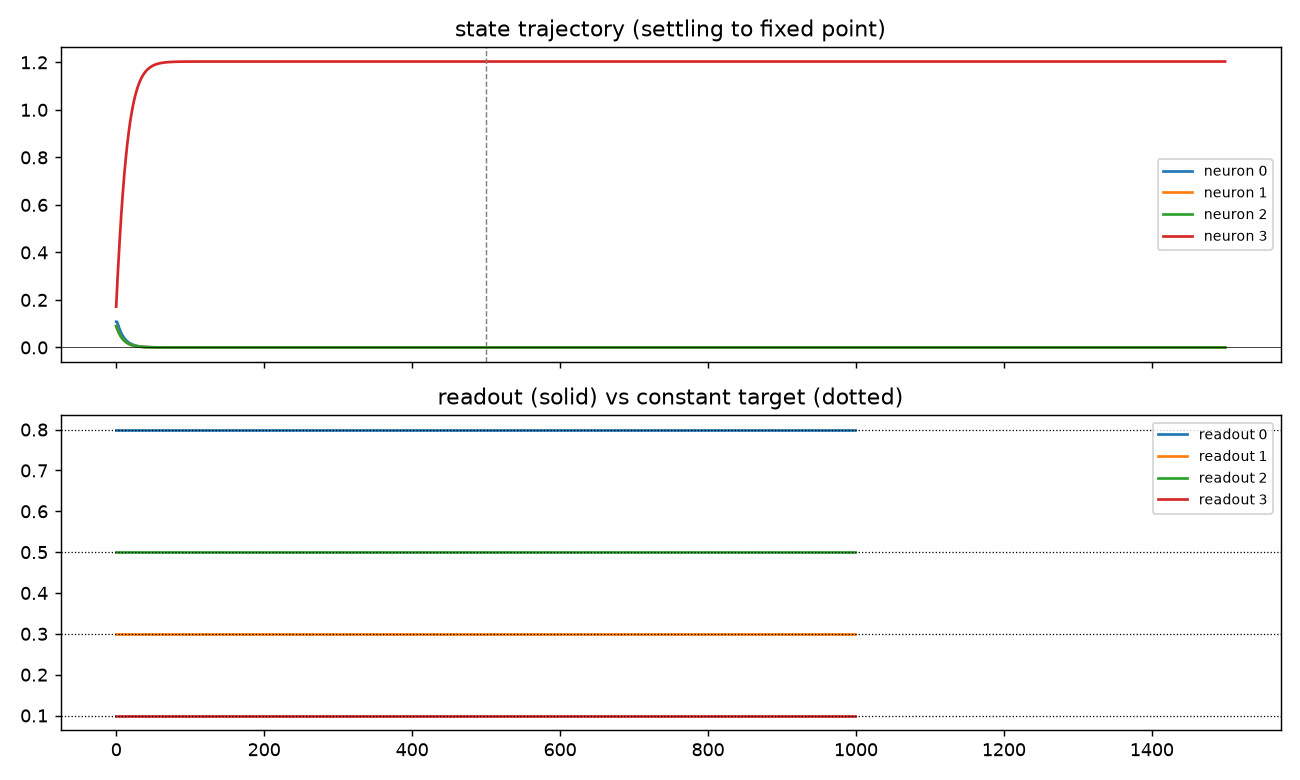
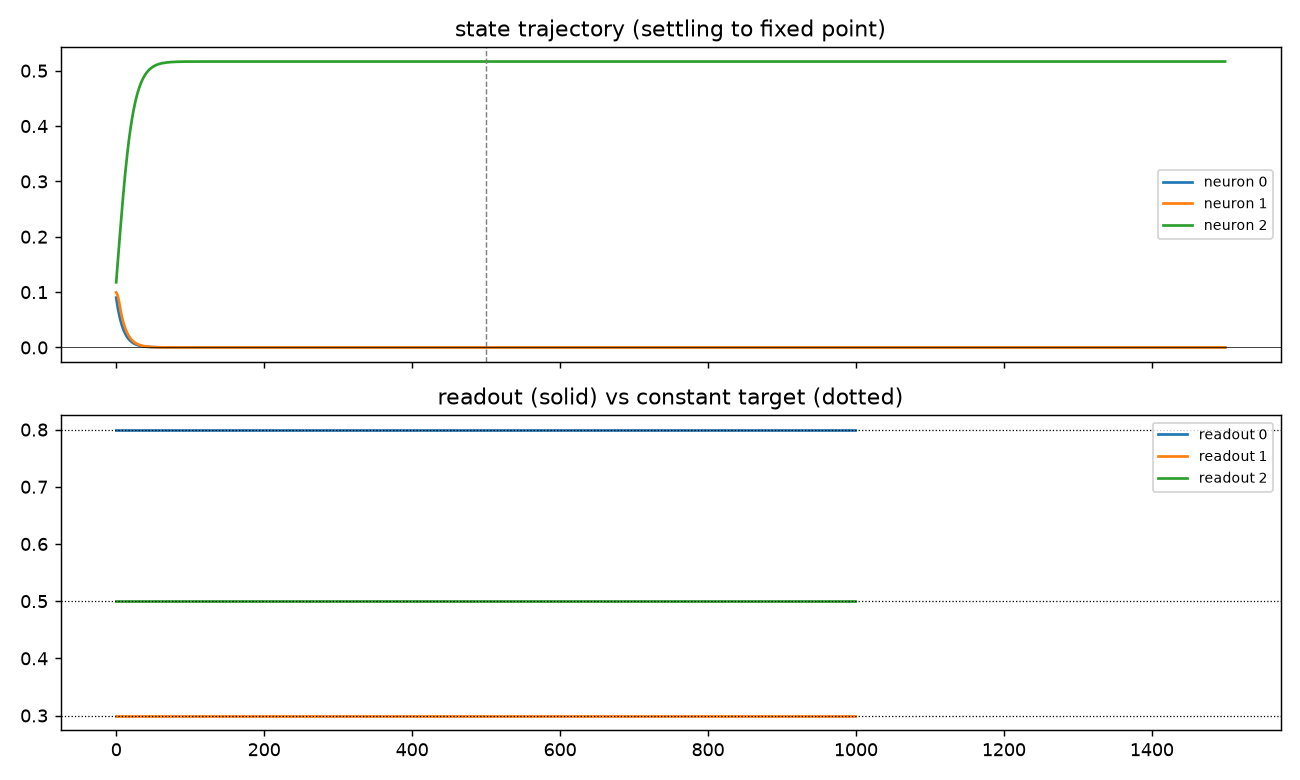
changes

diff --git a/examples/fixed_point_test.py b/examples/fixed_point_test.py
@@ -8,12 +8,12 @@ from oscillon.dynamics import simulate
 from oscillon.readout import fit_readout, apply_readout
 from oscillon.train.es import openai_es
 
-N = 4
+N = 3
 dt, n_steps, burn_in = 0.1, 1500, 500          # long burn_in: let transient die, judge the tail
 key = jax.random.PRNGKey(0)
 
 # --- constant target: a held static output vector ---
-target_value = jnp.array([0.8, 0.3, 0.5, 0.1])   # (N,) the value to settle-and-decode to
+target_value = jnp.array([0.8, 0.3, 0.5])   # (N,) the value to settle-and-decode to
 targets = jnp.broadcast_to(target_value, (n_steps, N))   # constant over time
 
 # --- spec: a NON-cycle topology biases toward fixed points, not oscillation ---
@@ -23,7 +23,7 @@ spec = BlockSoftSpec(sizes=(N,), cross_deltas=np.zeros((1, 1)),
 
 # seed an acyclic / feedforward-ish adjacency (no closed loop -> no traveling wave)
 A_seed = np.zeros((N, N), dtype=bool)
-A_seed[1, 0] = A_seed[2, 1] = A_seed[3, 2] = True     # a chain 0->1->2->3, no wrap-around
+A_seed[1, 0] = A_seed[2, 1] = True     # a chain 0->1->2, no wrap-around
 cycle = None
 key, sub = jax.random.split(key)
 params0 = init_block_params_from_adjacency(spec, sub, A_seed)
@@ -59,6 +59,7 @@ print("fixed point x*:", x_star)
 # confirm it's actually a fixed point: dx/dt ~ 0 there
 dxdt = -x_star + np.maximum(np.asarray(W_star) @ x_star + np.asarray(theta_star), 0)
 print("||dx/dt|| at x*:", np.linalg.norm(dxdt))            # -> near zero
+
 
 import matplotlib.pyplot as plt
 from oscillon.topology import extract_block_adjacency, block_gate_matrix
@@ -113,16 +114,200 @@ print("kept seed (acyclic chain):", np.array_equal(A_learned, A_seed))
 rng = np.random.default_rng(0)
 x0s = [rng.uniform(0, 1.2, size=N) for _ in range(6)] + [np.asarray(x0)]
 
+xs_tmp = simulate(W_star, theta_star, x0, dt=dt, n_steps=n_steps)
+x_star = np.asarray(xs_tmp[-200:].mean(0))
+
 # BEFORE: warm-start dynamics
 W0, th0 = p2m(params0)
-plot_phase_portrait(W0, th0, dims=(2, 3), x0s=x0s,
+plot_phase_portrait(W0, th0, dims=(1, 2), x0s=x0s,
+                    slice_value=float(x_star[0]),
                     dt=dt, n_steps=n_steps,
                     title="phase space BEFORE training (warm start)",
                     save_path=str(out / "fp_phase_before.png"))
 
 # AFTER: trained dynamics converging to x*
-fig_after = plot_phase_portrait(W_star, theta_star, dims=(2, 3), x0s=x0s,
+fig_after = plot_phase_portrait(W_star, theta_star, dims=(1, 2), x0s=x0s,
+                                slice_value=float(x_star[0]),
                                 dt=dt, n_steps=n_steps,
                                 title="phase space AFTER training (fixed point)",
                                 save_path=str(out / "fp_phase_after.png"))
 print("saved phase portraits")
+
+def diagnose_fixed_point(W, theta, x_star, tol=1e-6):
+    x_star = np.asarray(x_star)
+    W, theta = np.asarray(W), np.asarray(theta)
+
+    drive = W @ x_star + theta
+    active = drive > tol          # neurons actually "on" (interior support)
+    print("x*:", np.round(x_star, 4))
+    print("drive (Wx*+theta):", np.round(drive, 4))
+    print("active support:", active, f"({active.sum()}/{len(x_star)} active)")
+
+    if active.sum() == 0:
+        print("trivial fixed point (all zero) -- degenerate")
+        return
+
+    # Jacobian restricted to the active support only
+    idx = np.where(active)[0]
+    J_full = -np.eye(len(x_star)) + W
+    J_active = J_full[np.ix_(idx, idx)]
+    eigs = np.linalg.eigvals(J_active)
+    print("eigenvalues on active submatrix:", np.round(eigs, 4))
+    print("max real part:", eigs.real.max())
+    print("-> stable" if eigs.real.max() < 0 else "-> UNSTABLE (saddle/source)")
+
+diagnose_fixed_point(W_star, theta_star, x_star)
+
+# ======================================================================
+#  DISCOVERY SWEEP: can ES find a fixed point from random asymmetric init?
+# ======================================================================
+from oscillon.topology import init_params_asymmetric, extract_block_adjacency
+
+from topology_analysis import analyze_interior_fixed_point  
+
+
+def contains_directed_cycle(A, N):
+    """Does the adjacency contain a Hamiltonian directed cycle? Used here as
+    a NEGATIVE signal: a fixed point is more 'clean' if no closed loop formed."""
+    import itertools
+    for perm in itertools.permutations(range(1, N)):
+        order = (0,) + perm
+        if all(A[order[(k + 1) % N], order[k]] for k in range(N)):
+            return True
+    return False
+
+
+def fixed_point_emerged(W_t, theta_t, x0, dt, n_steps, burn_in,
+                         tail_frac=0.2, var_thresh=1e-3, dxdt_thresh=1e-2):
+    """Judge whether the TRAINED network settled to a fixed point.
+    Criteria: low tail variance (state stopped moving) AND low residual
+    dynamics (dx/dt ~ 0) at the tail mean. Independent of target value."""
+    xs = np.asarray(simulate(W_t, theta_t, x0, dt=dt, n_steps=n_steps))[burn_in:]
+    tail = xs[-int(tail_frac * len(xs)):]
+    tail_var = float(tail.var(0).max())
+    x_star = tail.mean(0)
+    dxdt = -x_star + np.maximum(np.asarray(W_t) @ x_star + np.asarray(theta_t), 0)
+    dxdt_norm = float(np.linalg.norm(dxdt))
+    settled = (tail_var < var_thresh) and (dxdt_norm < dxdt_thresh)
+    return settled, tail_var, dxdt_norm, x_star
+
+
+def is_stable_fixed_point(W, theta, x_star, tol=1e-6):
+    W, theta, x_star = np.asarray(W), np.asarray(theta), np.asarray(x_star)
+    drive = W @ x_star + theta
+    active = drive > tol
+    if active.sum() == 0:
+        return False, np.array([])          # trivial/degenerate, treat as not stable
+    idx = np.where(active)[0]
+    J_active = (-np.eye(len(x_star)) + W)[np.ix_(idx, idx)]
+    eigs = np.linalg.eigvals(J_active)
+    return bool(eigs.real.max() < 0), eigs
+
+from collections import defaultdict
+
+def summarize_by_zstd(results):
+    by_zstd = defaultdict(list)
+    for r in results:
+        by_zstd[r["z_std"]].append(r)
+
+    print("\n" + "=" * 70)
+    print(f"{'z_std':>6} | {'n':>3} | {'settled':>8} | {'acyclic':>8} | "
+          f"{'both':>6} | {'fp_stable':>10} | {'mean_eig':>9}")
+    print("-" * 70)
+
+    summary = {}
+    for z_std in sorted(by_zstd):
+        rows = by_zstd[z_std]
+        n = len(rows)
+        n_settled = sum(r["settled"] for r in rows)
+        n_acyclic = sum(r["acyclic"] for r in rows)
+        n_both = sum(r["settled"] and r["acyclic"] for r in rows)
+        n_fp_stable = sum(r["fp_stable"] for r in rows)
+        eigs = [r["max_real_eig"] for r in rows if not np.isnan(r["max_real_eig"])]
+        mean_eig = float(np.mean(eigs)) if eigs else float("nan")
+
+        summary[z_std] = {
+            "n": n, "settled_pct": 100 * n_settled / n,
+            "acyclic_pct": 100 * n_acyclic / n,
+            "both_pct": 100 * n_both / n,
+            "fp_stable_pct": 100 * n_fp_stable / n,
+            "mean_max_real_eig": mean_eig,
+        }
+        print(f"{z_std:>6.1f} | {n:>3} | {n_settled:>3}/{n:<3} {100*n_settled/n:>4.0f}%| "
+              f"{n_acyclic:>3}/{n:<3} {100*n_acyclic/n:>4.0f}%| "
+              f"{100*n_both/n:>5.0f}% | {n_fp_stable:>3}/{n:<3} {100*n_fp_stable/n:>4.0f}%| "
+              f"{mean_eig:>+9.3f}")
+
+    print("=" * 70)
+
+    # crude invariance check: spread of settled_pct and fp_stable_pct across z_std
+    settled_spread = max(s["settled_pct"] for s in summary.values()) - \
+                      min(s["settled_pct"] for s in summary.values())
+    stable_spread = max(s["fp_stable_pct"] for s in summary.values()) - \
+                     min(s["fp_stable_pct"] for s in summary.values())
+    print(f"spread across z_std -> settled: {settled_spread:.0f}pp, "
+          f"fp_stable: {stable_spread:.0f}pp")
+    print("(small spread supports invariance to init scale)")
+
+    return summary
+
+def run_sweep(n_seeds=20, z_stds=(1.0, 2.0, 3.0)):
+    # fixed reference target so every seed faces the SAME problem
+    target_ref = jnp.linspace(0.1, 0.9, N)
+    targets_sweep = jnp.broadcast_to(target_ref, (n_steps, N))
+
+    results = []
+    for seed in range(n_seeds):
+        for z_std in z_stds:
+            key_s = jax.random.PRNGKey(2000 + seed)
+            key_s, sub_s = jax.random.split(key_s)
+            params0_s = init_params_asymmetric(spec, sub_s, z_std=z_std)
+
+            fit_s = make_fixed_point_fitness(
+                p2m, x0, targets_sweep, dt=dt, n_steps=n_steps, burn_in=burn_in,
+                ridge=1e-6, settle_weight=1.0, n_edges=spec.n_edges)
+
+            best_params_s, history_s = openai_es(
+                fit_s, params0_s, key_s, n_iters=600, pop=128, sigma=0.1, lr=0.05)
+            W_s, theta_s = p2m(best_params_s)
+
+            settled, tail_var, dxdt_norm, x_star = fixed_point_emerged(
+                W_s, theta_s, x0, dt, n_steps, burn_in)
+
+            A_l = extract_block_adjacency(spec, best_params_s)
+            acyclic = not contains_directed_cycle(A_l, N)
+            fp_stable, fp_eigs = is_stable_fixed_point(W_s, theta_s, x_star)
+
+            results.append({
+                "seed": seed, "z_std": z_std, "settled": settled,
+                "tail_var": tail_var, "dxdt_norm": dxdt_norm,
+                "acyclic": acyclic, "fp_stable": fp_stable,
+                "max_real_eig": float(fp_eigs.real.max()) if len(fp_eigs) else float("nan"),
+                "final_reward": history_s[-1],
+            })
+            print(f"seed {seed:2d}: z_std={z_std:.2f} settled={settled!s:5} "
+                  f"acyclic={acyclic!s:5} fp_stable={fp_stable!s:5} "
+                  f"tail_var={tail_var:.4f} dxdt={dxdt_norm:.4f} "
+                  f"eig={fp_eigs.real.max():+.3f}")
+
+    n = len(results)
+    n_settled = sum(r["settled"] for r in results)
+    n_acyclic = sum(r["acyclic"] for r in results)
+    n_both = sum(r["settled"] and r["acyclic"] for r in results)
+    n_fp_stable = sum(r["fp_stable"] for r in results)
+
+    summary_by_zstd = summarize_by_zstd(results)
+
+    print("\n" + "=" * 60)
+    print(f"FIXED-POINT DISCOVERY SWEEP  (N={N}, {n_seeds} seeds x {len(z_stds)} z_std)")
+    print(f"  settled to fixed point:   {n_settled}/{n}  ({100*n_settled/n:.0f}%)")
+    print(f"  acyclic topology:         {n_acyclic}/{n}  ({100*n_acyclic/n:.0f}%)")
+    print(f"  both (full discovery):    {n_both}/{n}  ({100*n_both/n:.0f}%)")
+    print(f"  fp analytically stable:   {n_fp_stable}/{n}  ({100*n_fp_stable/n:.0f}%)")
+    print("=" * 60)
+    return results
+
+
+
+# Run the sweep
+# sweep_results = run_sweep(n_seeds=50, z_stds=(1.0, 2.0, 3.0))

diff --git a/examples/n_cycle.py b/examples/n_cycle.py
@@ -57,12 +57,14 @@ spec = BlockSoftSpec(
 )
 
 # --- warm start from the discrete N-cycle ---
-cycle = NetworkSpec([MotifSpec.sparse(N)])
+cycle = NetworkSpec([MotifSpec.cyclic(N)])
 A_seed = cycle.to_torch_adjacency().numpy()
 key, sub = jax.random.split(key)
 
-# params0 = init_block_params_from_adjacency(spec, sub, A_seed)
-params0 = init_params_asymmetric(spec, sub, z_std=2.0)
+## Swap between these two for either seeded init (cyclic) or random asymm
+
+params0 = init_block_params_from_adjacency(spec, sub, A_seed)
+#params0 = init_params_asymmetric(spec, sub, z_std=2.0)
 
 x0 = jnp.full((N,), 0.1)
 
@@ -223,6 +225,53 @@ def contains_directed_cycle(A, N):
             return True
     return False
 
+from collections import defaultdict
+
+def summarize_by_zstd(results):
+    by_zstd = defaultdict(list)
+    for r in results:
+        by_zstd[r["z_std"]].append(r)
+
+    print("\n" + "=" * 80)
+    print(f"{'z_std':>6} | {'n':>3} | {'emerged':>8} | {'topology':>9} | "
+          f"{'both':>6} | {'hamilton':>9} | {'fp_unstab':>9} | {'mean_eig':>9}")
+    print("-" * 80)
+
+    summary = {}
+    for z_std in sorted(by_zstd):
+        rows = by_zstd[z_std]
+        n = len(rows)
+        n_emerged = sum(r["emerged"] for r in rows)
+        n_topo = sum(r["cycle_topology"] for r in rows)
+        n_both = sum(r["emerged"] and r["cycle_topology"] for r in rows)
+        n_ham = sum(r["hamiltonian_cycle"] for r in rows)
+        n_fp_unstable = sum(r["fp_unstable"] for r in rows)
+        eigs = [r["max_real_eig"] for r in rows if not np.isnan(r["max_real_eig"])]
+        mean_eig = float(np.mean(eigs)) if eigs else float("nan")
+
+        summary[z_std] = {
+            "n": n, "emerged_pct": 100 * n_emerged / n,
+            "topology_pct": 100 * n_topo / n,
+            "both_pct": 100 * n_both / n,
+            "hamiltonian_pct": 100 * n_ham / n,
+            "fp_unstable_pct": 100 * n_fp_unstable / n,
+            "mean_max_real_eig": mean_eig,
+        }
+        print(f"{z_std:>6.1f} | {n:>3} | {n_emerged:>3}/{n:<3} {100*n_emerged/n:>4.0f}%| "
+              f"{n_topo:>3}/{n:<3} {100*n_topo/n:>4.0f}%| "
+              f"{100*n_both/n:>5.0f}% | {n_ham:>3}/{n:<3} {100*n_ham/n:>4.0f}%| "
+              f"{n_fp_unstable:>3}/{n:<3} {100*n_fp_unstable/n:>4.0f}%| "
+              f"{mean_eig:>+9.3f}")
+
+    print("=" * 80)
+
+    emerged_spread = max(s["emerged_pct"] for s in summary.values()) - \
+                      min(s["emerged_pct"] for s in summary.values())
+    print(f"spread across z_std -> emerged: {emerged_spread:.0f}pp "
+          f"(small spread supports invariance to init scale)")
+
+    return summary
+
 def run_sweep(n_seeds=20, z_std=2.0):
     # fixed target: build once at a reference period so every seed faces
     # the SAME problem (success = did a cycle emerge, not did it hit a period)
@@ -271,6 +320,8 @@ def run_sweep(n_seeds=20, z_std=2.0):
             n_both = sum(r["emerged"] and r["cycle_topology"] for r in results)
             n_hamiltonian = sum(r["hamiltonian_cycle"] for r in results)
 
+    summarize_by_zstd(results)
+
     print("\n" + "=" * 60)
     print(f"DISCOVERY SWEEP  (N={N}, {n_seeds} seeds, z_std={z_std})")
     print(f"  oscillation emerged:      {n_emerged}/{n}  ({100*n_emerged/n:.0f}%)")
@@ -278,8 +329,9 @@ def run_sweep(n_seeds=20, z_std=2.0):
     print(f"  both (full discovery):    {n_both}/{n}  ({100*n_both/n:.0f}%)")
     print(f"  hamiltonian cycle:        {n_hamiltonian}/{n}  ({100*n_hamiltonian/n:.0f}%)")
     print("=" * 60)
-    return results
+    return results, summarize_by_zstd(results)
 
+    
 
     from collections import defaultdict
 
@@ -295,5 +347,5 @@ def run_sweep(n_seeds=20, z_std=2.0):
         print(f"z_std={z_std:.1f}: oscillation {osc}/{n} ({100*osc/n:.0f}%), "
             f"hamiltonian {ham}/{n} ({100*ham/n:.0f}%)")
 
-if __name__ == "__main__" or True:   # set False to skip when running main script
-    sweep_results = run_sweep(n_seeds=20, z_std=2.0)
+# if __name__ == "__main__" or False:   # set False to skip when running main script
+#    sweep_results = run_sweep(n_seeds=50, z_std=2.0)
